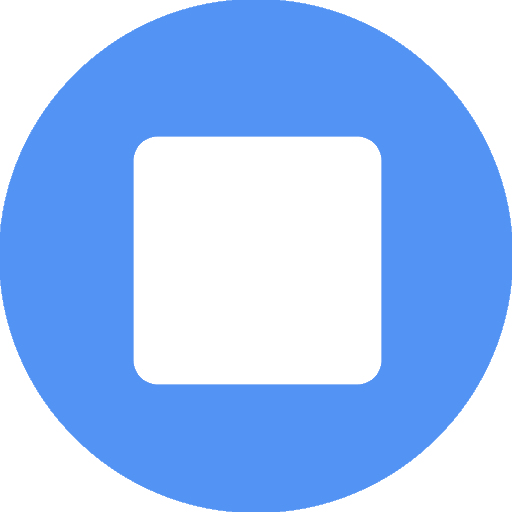
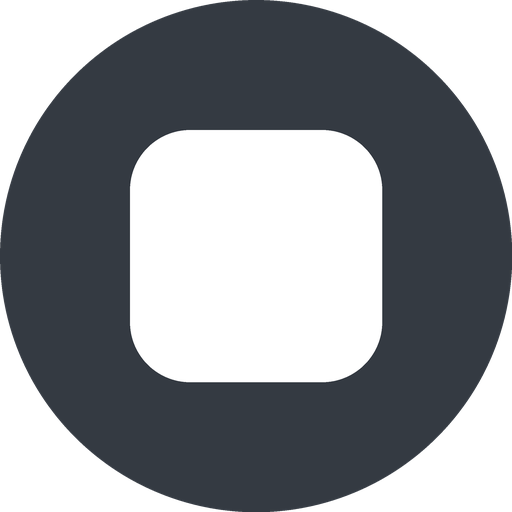
素材与输入框：提交用户的发送/停止圆钮（含 dark 两版）、IconButton 的 circleHoverTint、ulinhub.qrc 与 Composer 里对应的取图代码 —— 消掉 HEAD 上 IconButton 缺属性的悬空引用（从 HEAD 干净构建不再报 Cannot assign to non-existent property）

diff --git a/source/qml/basic/chat/Composer.qml b/source/qml/basic/chat/Composer.qml
@@ -280,15 +280,11 @@ Item {
         anchors.left: parent.left
         anchors.right: parent.right
         anchors.bottom: parent.bottom
-        // 卡片下沿 → 本行**上沿**的距离 = Theme.spacing.statsGap（4px）。
-        // 取值为什么是 -statsGap：本行 bottom 锚在 root.bottom 上，而 root.bottom 由 Shell 的
-        // composerLoader 定住（现在 bottomMargin = 0 ⇒ root.bottom 就是会话栏底边）、与 implicitHeight 无关，
-        // 所以"本行上沿 − 卡片下沿"= −bottomMargin ⇒ 写 -statsGap 就是"离卡片 4px"。
-        // ⚠ 只挪文字、**不动 root.implicitHeight**（仍是 卡片高 + statsLineHeight）：卡片位置一分不动，
-        // 会话区与输入框之间那条缝不受影响。
-        // 由此本行底边落在会话栏底边**下 4px**：会话栏底不画任何东西（会话区是透明 Item），
-        // 而列底距窗口底还有 contentSideInset(9px) ⇒ 小字实际离窗口底边约 5px，不会被裁切。
-        anchors.bottomMargin: -Theme.spacing.statsGap
+        // 用户要的是"小字**底边**对齐会话栏底边"⇒ 取 0：本行底边正好落在 root.bottom
+        // （= Shell composerLoader 的底 = 会话栏底边，因为那条 bottomMargin 已经是 0）。
+        // 不取 -statsGap（那会让小字落到列底**下方** 4px，轻微溢出）；也不动 root.implicitHeight
+        // （band 里本来就含 statsLineHeight）⇒ 卡片位置与会话区那条缝都不受影响。
+        anchors.bottomMargin: 0
         height: Theme.size.statsLineHeight
         verticalAlignment: Text.AlignVCenter
         horizontalAlignment: Text.AlignHCenter

diff --git a/source/qml/widgets/IconButton.qml b/source/qml/widgets/IconButton.qml
@@ -16,6 +16,10 @@ Item {
     // 圆形悬停蒙版（原版输入区发送键的做法：蒙版叠在**图标之上**、鼠标穿透、
     // hover 白 35% / pressed 白 55%、圆角 = 边长一半）。给了它就不再画方形悬停底。
     property bool circleHoverOverlay: false
+    // 蒙版基色。默认白 —— 底色深（或透明）时"提亮"才是对的悬停反馈。
+    // 但底色本身是浅色（如暗色主题下的白圆发送键）时，白蒙版叠上去等于没叠，
+    // 悬停/按下会**完全没有反馈** ⇒ 那种情况由调用方改成黑（见 Composer.qml）。
+    property color circleHoverTint: "#FFFFFF"
     property string tooltip: ""
     property bool selected: false
     property int glyphSize: Theme.font.lead
@@ -91,9 +95,12 @@ Item {
         anchors.fill: parent
         visible: root.circleHoverOverlay
         radius: width / 2
+        // 白 35% / 55% 原样保留，只是基色可换（默认白 ⇒ 与改动前逐像素相同）
         color: root.pressed
-            ? Qt.rgba(1, 1, 1, 0.55)
-            : (root.hovered ? Qt.rgba(1, 1, 1, 0.35) : "transparent")
+            ? Qt.rgba(root.circleHoverTint.r, root.circleHoverTint.g, root.circleHoverTint.b, 0.55)
+            : (root.hovered
+               ? Qt.rgba(root.circleHoverTint.r, root.circleHoverTint.g, root.circleHoverTint.b, 0.35)
+               : "transparent")
     }
 
     AppToolTip {
